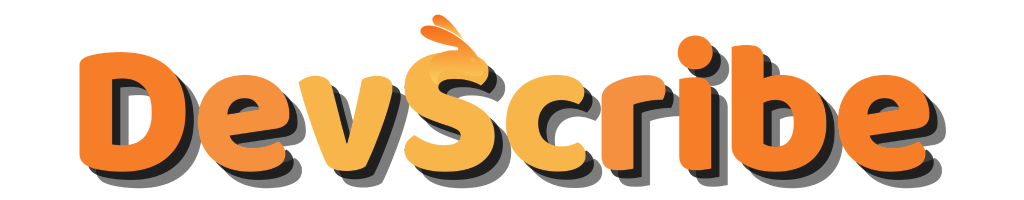
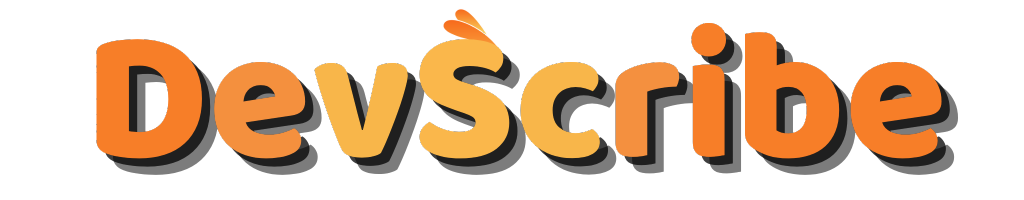
fix: image sizing

diff --git a/components/devscribe/features.tsx b/components/devscribe/features.tsx
@@ -99,14 +99,9 @@ export default function Features() {
       <div className="py-1 md:py-1 border-t border-gray-800">
         <div className=" grid grid-cols-1 gap-1 items-start lg:max-w-none py-5 md:py-12 text-center">
           <div className="flex flex-col h-full p-6 w-full " data-aos="fade-up">
-            <div className="relative inline-flex flex-col mb-4 w-full  items-center">
-              <Image
-                  decoding="async"
-                  src={Schedule}
-                  className="logo w-3/9"
-                  alt="DevSeribe Schedule"
-              />
-            </div>
+            <h2 className="h2 mb-2">SCHEDULE</h2>
+            <br/>
+            <h3 className="h3 mb-2">TBA</h3>
           </div>
         </div>
       </div>

diff --git a/components/devscribe/hero.tsx b/components/devscribe/hero.tsx
@@ -74,7 +74,7 @@ export default function Hero() {
             <div className=" mt-3 mb-5 md:bottom-8 md:left-12 z-60 sm:max-w-none sm:flex sm:justify-center">
               <div className="text-slate-50 text-sm p-3 md:rounded ">
                 <div className='text-slate-500 inline-flex'>
-                  <Link className="text-lg font-semibold hover:underline text-slate-50" href="https://forms.gle/9ABV4QosARLBB8Vc7" target="_blank" rel="noreferrer">
+                  <Link className="text-lg font-semibold hover:underline text-slate-50" href="https://forms.gle/X1XQkbZy9AaARHeZ9" target="_blank" rel="noreferrer">
                     {/*<span className="hidden sm:inline"> */}
                       22 November 2024
                     {/*</span>*/}

diff --git a/components/devscribe/testimonials.tsx b/components/devscribe/testimonials.tsx
@@ -137,7 +137,7 @@ export default function Testimonials() {
             <div className="flex flex-col h-full p-3 justify-center " data-aos="fade-up">
               <div>
                 <div className="relative inline-flex flex-col mb-4  justify-center">
-                  <Link href="" title="Go to Google" target="_blank" rel="noopener">
+                  <Link href="https://www.lambdatest.com/" title="Go to Google" target="_blank" rel="noopener">
                     <Image decoding="async" width="393"
                            height="129"
                            src={LTSponsor}
